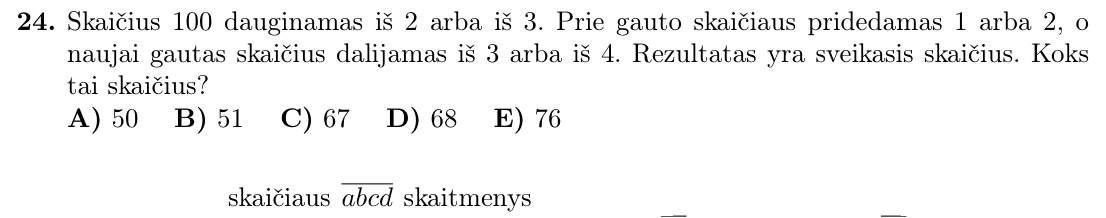
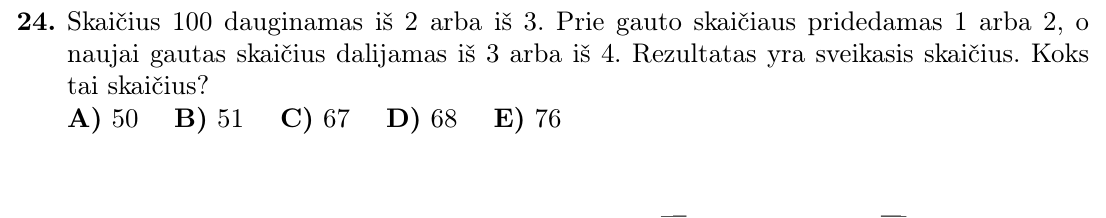
Loop 229: masking never erases the question's own words
A neighbour's drawing box (or a rotated page banner) overlapping our text
was painted white with the text under it: 2017-3 and 2021-11 had lost
half their prompt. Component masks now skip boxes that touch our own
words; a text line with 3+ words outside the band (a neighbour's
sentence / options row) is painted out even next to a drawing (2008-18,
2021-11, 2015-24). Four figures re-cut. FIGS v12.

Changed region(s): [[0.1844, 0.8532, 0.4919, 0.9633], [0.3074, 0.8257, 0.3689, 0.8532]]

diff --git a/sw.js b/sw.js
@@ -3,7 +3,7 @@
    the next load, offline still opens the app. Figures (png): cache-first,
    filled on demand → a paper the kid has opened once works offline. */
 const SHELL = "kengura-shell-v2";
-const FIGS = "kengura-figs-v11";   // bump whenever a figure PNG is replaced (cache-first!)
+const FIGS = "kengura-figs-v12";   // bump whenever a figure PNG is replaced (cache-first!)
 const SHELL_URLS = ["./", "kengura.html", "kengura-archive.js", "manifest.webmanifest", "icon.svg"];
 
 self.addEventListener("install", e => {

diff --git a/_recrop.py b/_recrop.py
@@ -174,16 +174,26 @@ def crop(pdf, n, old, year=None):
     lo, hi = hr.y0 - 1, (nxt.y0 - 1) if nxt else clip.y1 + 1
     own = [c + (-8, -8, 8, 8) for c in comps if lo - 2 <= (c.y0 + c.y1) / 2 < hi + 2]
     masks = []
+    # a text line with >= 3 words outside the band is a neighbour's sentence or
+    # options row, never a drawing label – it goes even when it touches a drawing
+    from collections import Counter
+    out_lines = Counter(round(w[3] / 3) for w in page.get_text('words')
+                        if clip.intersects(fitz.Rect(w[:4])) and (w[3] <= lo + 1 or w[1] >= hi))
     for w in page.get_text('words'):
         r = fitz.Rect(w[:4])
         if not clip.intersects(r): continue
         outside = r.y1 <= lo + 1 or r.y0 >= hi
+        if outside and out_lines[round(w[3] / 3)] >= 3: masks.append(r + (-1, -1, 1, 1)); continue
         heading = sect_y is not None and abs(w[3] - sect_y) < 2.5   # same baseline as the section heading
         forced = heading or (outside and w[4] in FORCE_MASK.get((year, n), ()))
         if forced or (outside and not any(o.intersects(r) for o in own)): masks.append(r + (-1, -1, 1, 1))
+    # our own words (inside the band) are never painted over – a neighbour's
+    # drawing box or a rotated page banner can overlap them (2017-3, 2021-11)
+    mine = [fitz.Rect(w[:4]) for w in page.get_text('words')
+            if clip.intersects(fitz.Rect(w[:4])) and lo + 1 < (w[1] + w[3]) / 2 < hi]
     for c in comps:
         mid = (c.y0 + c.y1) / 2
-        if clip.intersects(c) and not (lo - 2 <= mid < hi + 2) and not any(o.contains(c) for o in own):
+        if clip.intersects(c) and not (lo - 2 <= mid < hi + 2) and not any(o.contains(c) for o in own)                 and not any(c.intersects(r) for r in mine):
             masks.append(c + (-1, -1, 1, 1))
     crop.last_masks = masks
     return page, clip
